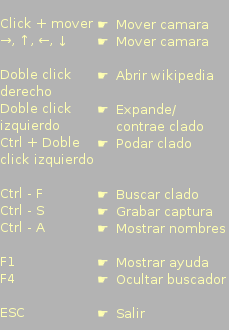
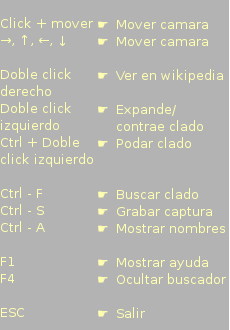
☛ Mejorados README e INSTALL, y el menú de ayuda.

Changed region(s): [[0.487, 0.2121, 0.9739, 0.2424]]

diff --git a/program.cpp b/program.cpp
@@ -28,50 +28,63 @@
  * proyecto.
  *
  * Esta web contiene información de principal interés para
- * desarrolladores. El punto de entrada de la aplicación es \c main.cpp,
- * que ejecuta a la clase principal del juego, \c QFreePhyloTree.\n
+ * desarrolladores, aunque ésta página de inicio es de interés para
+ * todo aquel que quiera instalar y usar la aplicación. El punto de
+ * entrada de la aplicación es \c main.cpp, que ejecuta a la clase
+ * principal del juego, \c QFreePhyloTree.\n
  *
- * \section sec Instalación de la aplicación
+ * \section sec Instalación y ejecución de la aplicación
  *
  * Para instalar la aplicación, necesitas descargar el código fuente,
  * disponible <a
  * href="http://gitorious.org/freephylotree/freephylotree/archive-tarball/master">aquí</a>,
  * en donde se encuentra la última versión de desarrollo del proyecto
- * (inestable).
+ * (inestable). Más abajo se muestran las dependencias necesarias.
  *
- * Una vez descargado, y en consola, ejecuta: "$ cmake .", y luego
- * "$ make". Para generar la documentación (que posiblemente esté más
- * actualizada que ésta), "$ make doc". La documentación
- * se encuentra en "doc/html/index.html". Si todas las librerías éstan
- * correctamente instaladas, se compilará la aplicación exitósamente,
- * y ésta se podrá ejecutar escribiendo "$ ./FreePhyloTree". En caso
- * contrario, \a cmake avisará de las librerías no encontradas.
+ * Una vez descargado, y en consola, ejecuta: "$ cmake .". Si no hay
+ * ningún aviso de error, y todas las librerías se han encontrado
+ * exitosamente, ejecuta: "$ make". Se habrá compilará la aplicación
+ * exitósamente, y ésta se podrá ejecutar escribiendo: "$
+ * ./FreePhyloTree. Para generar la documentación, "$ make doc". La
+ * documentación se encuentra en "doc/html/index.html". Para ejecutar
+ * la aplicación, es necesario aceleración 3D y conexión a internet.
  *
- * El software solo funciona con acceso a internet y aceleración 3D.
+ * A continuación se muestra la lista de dependencias para poder
+ * construir y compilar la aplicación. En éstas, se muestra primero la
+ * dependencia con un enlace a su página web, seguido de la lista de
+ * paquetes específicos necesarios, así como la versión
+ * correspondiente. La versión indicada es, en concreto, la versión
+ * instalada en mi máquina. Es de suponer que en cualquier versión
+ * superior la aplicación debería correr perfectamente —especial
+ * cuidado con las versiones de Qt.
  *
- * \subsection libs Dependencias y librerías necesarias:
- * \li <a href="http://flex.sourceforge.net/">Flex</a>
- * \li <a href="http://qt.nokia.com/">Qt4</a> (módulos adicionales:
- * QtWebKit y QtOpenGL)
- * \li <a href="http://curl.haxx.se/libcurl/">Curl</a>
- * \li <a href="http://www.mesa3d.org/">mesa</a>
- * \li <a href="http://sourceforge.net/projects/ftgl/develop">FTGL</a>
- * \li <a href="http://gcc.gnu.org/">gcc</a>
- * \li <a href="http://www.cmake.org/">cmake</a>
- * \li <a href="http://www.gnu.org/software/make/">make</a>
- * \li <a href="http://www.stack.nl/~dimitri/doxygen/">Doxygen</a>
- * (para generar la documentación).
+ * \subsection libcons Dependencias de construcción:
+ * \li <a href="http://www.cmake.org/">cmake</a>, paquetes cmake,
+ * cmake-data (versión 2.8.0-5).
+ * \li <a href="http://www.gnu.org/software/make/">make</a>, paquete
+ * make (versión 3.81-7).
+ * \li <a href="http://gcc.gnu.org/">gcc</a>, paquete gcc (versión 4.4.3-4).
+ *
+ * \subsection libcomp Dependencias de compilación:
+ * \li <a href="http://qt.nokia.com/">Qt4</a>, paquetes libqt4-dev, libqt4-opengl-dev, libqt4-webkit
+ * (versión 4.6.2-0).
+ * \li <a href="http://www.mesa3d.org/">mesa</a>, se instalata
+ * automáticamente con el paquete opengl de Qt.
+ * \li <a
+ * href="http://sourceforge.net/projects/ftgl/develop">FTGL</a>,
+ * paquete libftgl-dev (versión 2.1.3~rc5-3).
+ * \li <a href="http://curl.haxx.se/libcurl/">Curl</a>, paquete
+ * libcurl4-gnutls-dev (versión 7.19.7-1).
+ * \li <a href="http://flex.sourceforge.net/">Flex</a>, paquete flex
+ * (versión 2.5.35-9).
+ *
+ * \subsection libdoc Dependencias de documentación.
+ * \li <a href="http://www.stack.nl/~dimitri/doxygen/">Doxygen</a>,
+ * paquete doxygen (versión 1.6.3-1).
  *
  * Todas éstas dependencias/librerías están disponibles en los
  * respositorios oficiales de \c Ubuntu, y son software libre, de
  * licencias GPL o compatibles con la GPL.
- *
- * \subsection err Errores encontrados
- * \li Se han encontrado inestabilidades en la ejecución de la
- * aplicación sobre máquinas con tarjeta gráfica ATI y SO Ubuntu, en
- * una, las páginas de wikipedia no se mostraban correctamente, y en
- * otra daba violación de segmento. Aún no se conocen los motivos ni
- * como solucionarlos.
  *
  * \section uso Uso de la aplicación
  * La aplicación funciona de la siguiente forma: cuando se lanza,
@@ -82,13 +95,45 @@
  * a los organismos con núcleo celular (como nosotros). Si se hace
  * doble click izquierdo en cualquier nodo del árbol, éste se amplia, mostrando
  * los subclados correspondientes. Si el nodo ya está ampliado,
- * entonces se contrae.
+ * entonces se contrae. Pulsando el botón F1 se muestra una pantalla
+ * de ayuda con todos los controles de la aplicación.
  *
  * Haciendo doble click derecho en cualquier nodo, se abre el
- * artículo correspondiente del clado/especie en wikipedia. Por
- * último, con Ctrl + doble click izquierdo en un nodo sólo queda en
+ * artículo correspondiente del clado/especie en wikipedia. Para
+ * cerrarlo, puedes pulsar la tecla ESC o hacer de nuevo doble click
+ * derecho fuera del explorador (pero dentro de la aplicación).
+ *
+ * Con Ctrl + doble click izquierdo en un nodo sólo queda en
  * pantalla su subárbol correspondiente, desapareciendo el resto del
- * árbol.
+ * árbol (podado del árbol).
+ *
+ * Para realizar cualquier búsqueda, puedes pulsar Ctrl + F, y a
+ * continuación escribir el nombre del clado a buscar. Pulsando F4 se
+ * oculta el buscador. Con Ctrl + S se puede tomar una captura del
+ * árbol actual, incluido el menú de ayuda si éste está abierto. Se
+ * recomienda ocultar éste menú de ayuda con F1 para tomar una captura
+ * solamente del árbol.
+ *
+ * Con Ctrl + A se muestran los nombres de todos los clados.
+ *
+ * \section err Errores y problemas encontrados
+ * \li Violación de segmento en el arranque: Ésto, hasta ahora, pasa
+ * en todas las arquitecturas de 64 bits probadas. Se soluciona
+ * ejecutando la aplicación con sudo ($sudo ./FreePhyloTree). Igualmente,
+ * sigue ocurriendo una violación de segmento en cuanto se haga click,
+ * tanto en el buscador como en el explorador integrado
+ * —específicamente, al soltar el ratón después de hacer click en
+ * cualquier widget integrado, que por ahora son el buscador y el
+ * explorador.
+ * \li En algunas arquitecturas el árbol no se muestra, aunque
+ * internamente está cargado y la aplicación corre normalmente. No se
+ * conoce el motivo de ésta inestabilidad, pero parece ser que, de
+ * alguna forma, las órdenes openGL dadas, se ejecutan, pero no se
+ * envían correctamente a Qt, y por tanto no se renderizan en el
+ * widget openGL. Para aquellos que le sucedan tal cosa, que me envíen
+ * por correo (véase al principio de ésta página) datos sobre la
+ * distribución, arquitectura y versión instalada de los paquetes
+ * requeridos por la aplicación (véase arriba).
  */
 
 #include <iostream>
